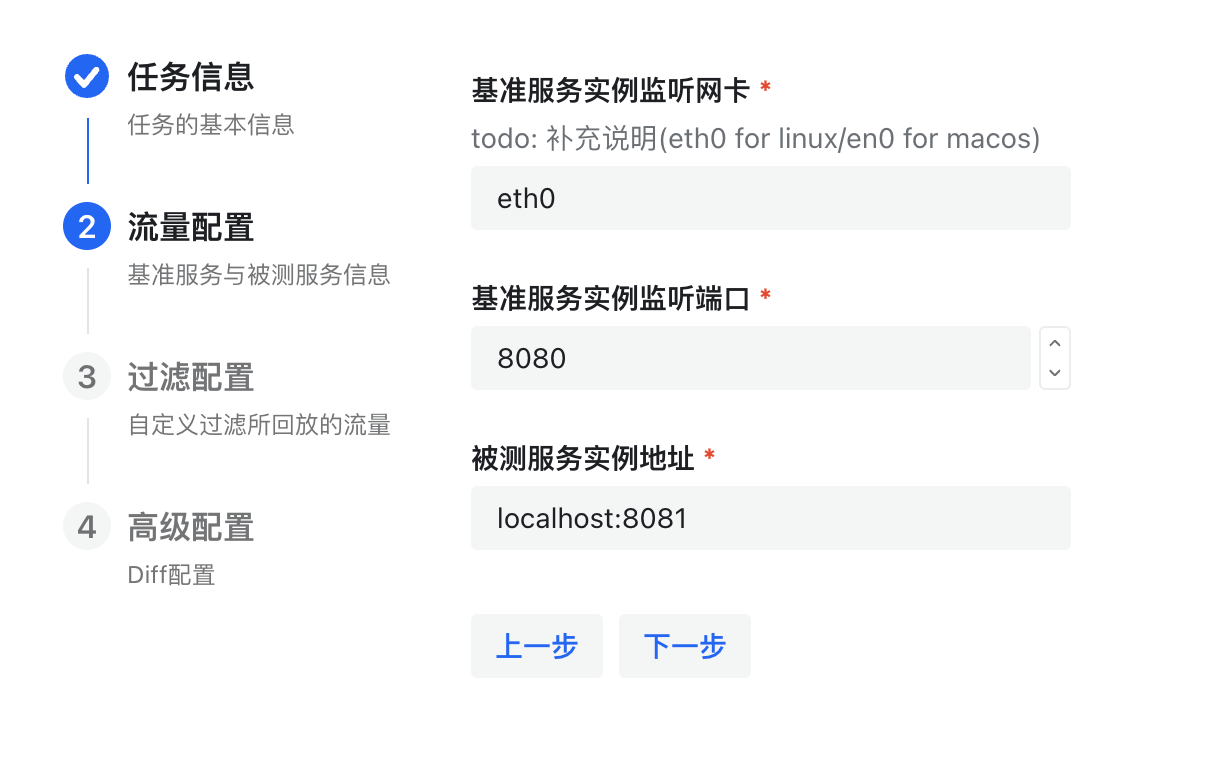
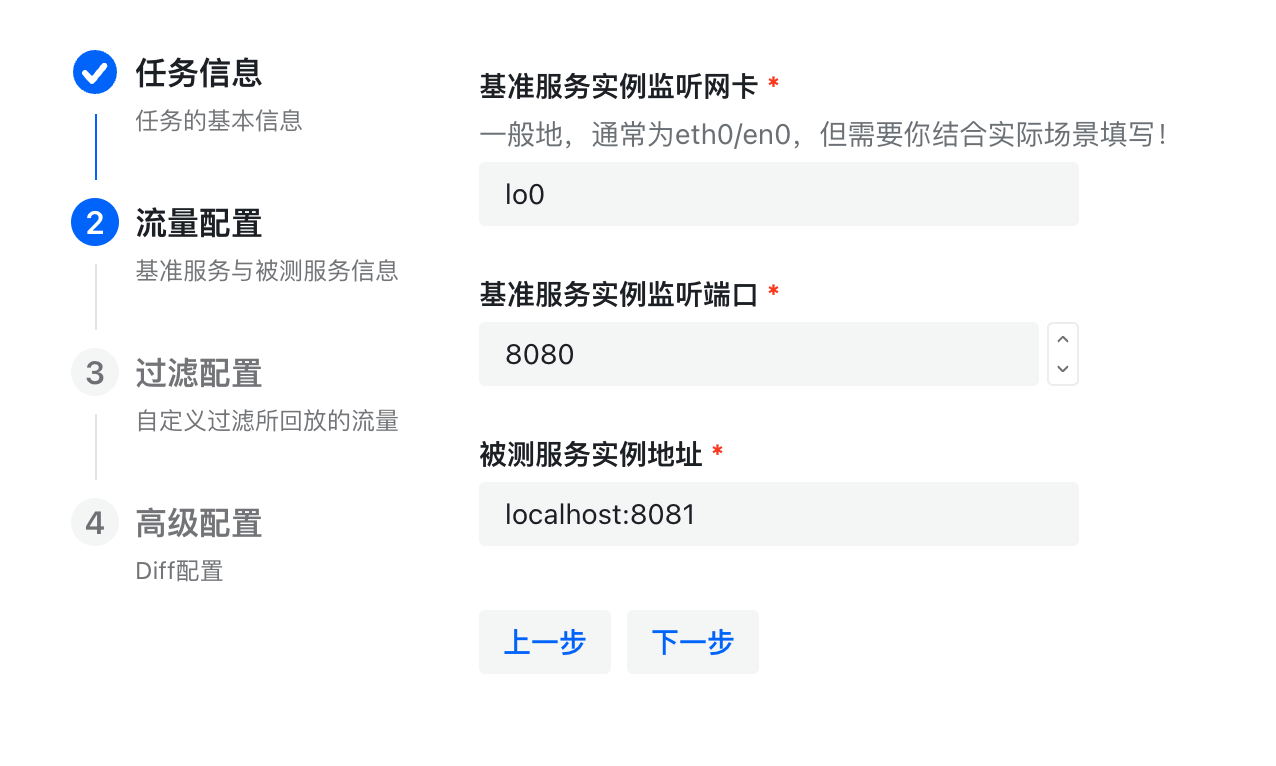
优化细节

diff --git a/src/pages/task-panel/index.tsx b/src/pages/task-panel/index.tsx
@@ -18,7 +18,7 @@ import {
   Toast,
   Typography,
 } from "@douyinfe/semi-ui";
-import { useEffect, useState } from "react";
+import { NewLifecycle, useEffect, useState } from "react";
 import { useNavigate, useParams } from "react-router-dom";
 import { Light } from "react-syntax-highlighter";
 import { githubGist } from "react-syntax-highlighter/dist/esm/styles/hljs";
@@ -319,11 +319,10 @@ const TaskPanel = () => {
       key: "回放请求成功率",
       value: (
         <Progress
-          percent={
-            taskDetail.total_record === 0
-              ? 0
-              : (taskDetail.success_record / taskDetail.total_record) * 100
-          }
+          percent={calculateSuccessRate(
+            taskDetail.total_record,
+            taskDetail.success_record
+          )}
           type="circle"
           showInfo
           format={(per) => per + "%"}
@@ -403,7 +402,9 @@ const TaskPanel = () => {
                       service_port: taskDetail.traffic_config.port.toString(),
                       replay_svr_addr: process.env.REACT_APP_REPLAY_ADDR!,
                     };
-                    navigator.clipboard.writeText(JSON.stringify(settings));
+                    navigator.clipboard.writeText(
+                      JSON.stringify(settings, null, 2)
+                    );
                     Toast.success("复制成功!");
                   } catch (err) {
                     Toast.error("复制失败!");
@@ -653,7 +654,7 @@ const TaskPanel = () => {
 
         {/* 删除任务弹窗 */}
         <Modal
-          header={null}
+          // header={null}
           visible={isDeleteModalVisible}
           onOk={() => {
             setIsDeleteModalVisible(false);
@@ -767,7 +768,7 @@ const TaskPanel = () => {
                       style={githubGist}
                       showLineNumbers={true}
                     >
-                      {record.diff}
+                      {record.diff === "" ? "No difference!" : record.diff}
                     </Light>
                   </Collapse.Panel>
                 </Collapse>
@@ -778,6 +779,14 @@ const TaskPanel = () => {
       </div>
     </div>
   );
+};
+
+const calculateSuccessRate = (total_record: number, success_record: number) => {
+  if (total_record === 0) {
+    return 0;
+  }
+  const rate = (success_record / total_record) * 100;
+  return parseFloat(rate.toFixed(2));
 };
 
 export default TaskPanel;

diff --git a/src/pages/add-task/components/advance-form/index.tsx b/src/pages/add-task/components/advance-form/index.tsx
@@ -10,18 +10,20 @@ const AdvanceForm = () => {
   };
 
   return (
-    <Form>
+    <Form extraTextPosition="middle">
       {({ formState, values, formApi }) => (
         <>
           <Form.Section text={"JSON Diff配置"}>
             <Form.Switch
               field="isRecursionDiff"
-              label="递归模式"
+              label="一视同仁模式"
+              extraText="保留响应完全一致的记录"
               initValue={data.advance_config.is_recursion_diff}
             />
             <Form.Switch
               field="isIgnoreArraySequence"
               label="忽略数组顺序模式"
+              extraText="将JSON的数组视为集合"
               initValue={data.advance_config.is_ignore_array_sequence}
             />
           </Form.Section>

diff --git a/src/pages/add-task/components/traffic-form/index.tsx b/src/pages/add-task/components/traffic-form/index.tsx
@@ -17,7 +17,7 @@ const TrafficForm = () => {
           <Form.Input
             field="device"
             label={"基准服务实例监听网卡"}
-            extraText={"todo: 补充说明(eth0 for linux/en0 for macos)"}
+            extraText={"一般地，通常为eth0/en0，但需要你结合实际场景填写！"}
             style={{ width: "50%" }}
             initValue={data.traffic_config.device}
             showClear={true}

diff --git a/src/pages/add-task/components/filter-form/index.tsx b/src/pages/add-task/components/filter-form/index.tsx
@@ -20,7 +20,7 @@ const FilterForm = () => {
           <div style={{ paddingBottom: "10px" }}>
             <Form.Label text={"Http路径过滤配置"} />
             <br />
-            <Text type="tertiary">支持正则表达式，todo:正则表达式参考文档</Text>
+            <Text type="tertiary">支持正则表达式</Text>
           </div>
 
           <ArrayField

diff --git a/src/pages/add-task/context.ts b/src/pages/add-task/context.ts
@@ -21,6 +21,7 @@ export type FilterConfig = {
 };
 
 export type AdvanceConfig = {
+  // todo: 将递归diff模式改为保留全量record模式
   is_recursion_diff: boolean | undefined;
   is_ignore_array_sequence: boolean | undefined;
 };

diff --git a/src/pages/home/components/guide/guide.md b/src/pages/home/components/guide/guide.md
@@ -31,9 +31,9 @@
   <img src="/step1.png" style="zoom:50%" />
 </div>
 
-点击下一步，如信息符合校验，进入流量靶向信息表单。我们需要明确这个Diff任务的线上服务以及被测服务的网络信息。比如线上服务流量所经网卡，监听端口和被测服务IP地址。
+点击下一步，如信息符合校验，进入流量靶向信息表单。我们需要明确这个Diff任务的线上服务以及被测服务的网络信息。比如线上服务流量所经网卡，监听端口和被测服务IP地址。在本示例中，监听网卡设置为`lo0`，因为我们的线上服务和被测服务均部署于Mac本地，且请求也从本地发出，因此流量只经过本地网卡。
 
-> :bulb:一般地，现在HTTP服务部署在Docker中，我们只需监听`eth0`端口即可。
+> :bulb:一般地，企业的HTTP服务部署在Docker中，我们只需监听`eth0`端口即可。
 
 <div style="display:flex;justify-content:center">
   <img src="/step2.png" style="zoom:50%" />
@@ -52,6 +52,19 @@
 <div style="display:flex;justify-content:center">
   <img src="/step4.png" style="zoom:50%" />
 </div>
+
+
+> :bulb:忽略数组顺序模式，其实是将JSON里的数组视作集合看待。比如，没开启忽略数组顺模式时，结果将会是这样：
+>
+> <div style="display:flex;justify-content:center">
+>   <img src="/array_list.png" style="zoom:35%" />
+> </div>
+>
+> 然而，开启该模式后：
+>
+> <div style="display:flex;justify-content:center">
+>   <img src="/array_set.png" style="zoom:35%" />
+> </div>
 
 点击下一步，进入到预览界面，在这里可以确认自己填写的信息是否准确。
 
